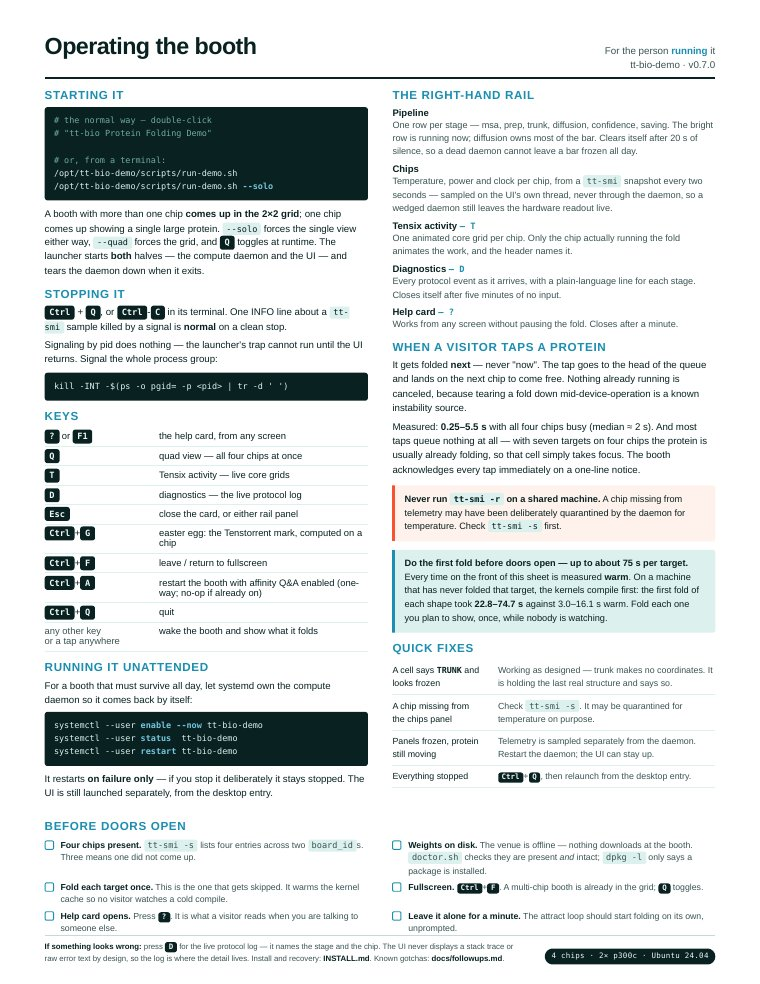
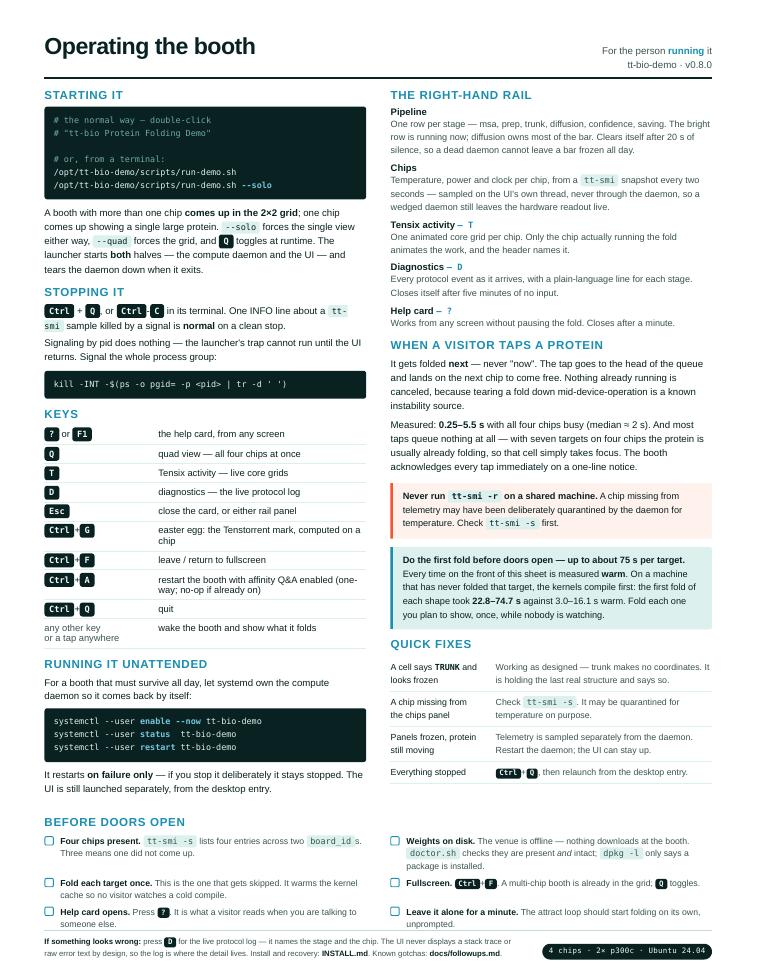
chore: release bookkeeping for tt-bio 0.15.2 and protenix-v1 (0.8.0)

diff --git a/CLAUDE.md b/CLAUDE.md
@@ -1927,6 +1927,114 @@ row and the diagnostics panel below it -- never the panel a visitor is actively 
 answer land in. `test_opening_the_tensix_panel_does_not_move_the_affinity_panel` pins the new
 order and was confirmed red against the old one before being restored.
 
+### tt-bio 0.15.2 and Protenix-v1: the booth's model changed (2026-10-13)
+
+Prompted with: "Let's create a branch to update to the newest tt-bio and use any
+new models, features, etc that make sense. tt-bio might have its own 'demo' UI
+now too; evaluate if so and determine if this project has become superfluous".
+
+**tt-bio has no demo UI, so the project stays.** What it has is a terminal live
+display, `predict --listen`, and `msa-server`. None of them is a booth: no
+gallery, no attract loop, no per-chip panels, no Q&A. The spec has the
+comparison.
+
+**The reason the model changed is a licence, and the pin bump exposed it.**
+tt-bio stopped downloading the Protenix-v2 weights in 0.13.0. Upstream says they
+may not be redistributed without the rights holder's consent, and the old
+Hugging Face source answered HTTP 401. A booth pinned past 0.12.0 could not
+install its own model. Protenix-v1 is upstream's Apache-2.0 v0.5.0 checkpoint,
+so the booth folds with that. The pin moved 0.12.0 -> 0.15.2.
+
+**Key decisions**
+
+- One constant, `runner/model.py:BOOTH_MODEL`, names the model. `ui.playlist`
+  raises `PlaylistError` for a manifest entry that names another one, so a
+  playlist cannot ask the daemon for a model the install did not fetch.
+- The v1 checkpoint lives at `<cache>/protenix/model_v0.5.0.pt`, in a
+  subdirectory. That changed `doctor.sh`'s filesystem check and the postinst's
+  checksum verification. The weights total is recomputed: 6.5 GB (3.3 fold,
+  3.2 Q&A).
+- Adopted nothing else from the release range. Not adopted, with the reasons in
+  the spec: `--write_pae`, the Boltz-2 trajectory hook, OpenDDE guidance, and
+  bf16 diffusion.
+- New `scripts/hw-run.sh` is the safe entry point for hardware runs, with or
+  without gozer. It refuses `scripts/test.sh --hw` unless every chip is granted,
+  because that suite opens all four cards.
+
+**Measured on v1** (all seven targets, same chip and host stack as the v2 runs,
+`docs/measurements-2026-10-13-protenix-v1.md`): warm 2.99-16.1 s, which is
+1.25-3.2x faster than v2. Mean pLDDT is lower than v2 on every target: about 2
+points on Trp-cage and the DNA duplex, 7 on tRNA, 7-20 on the msa-empty
+proteins, 24 on albumin. FKBP12 with SB3 folds on v1. Recorded streams were re-captured on v1. The site,
+README and handout carry the new numbers, and commit counts were re-measured
+(14,033 total, 13,396 carry his name as author).
+
+**Product findings that need the owner**
+
+- **Confidence trade-off.** The booth is faster and the colors come from
+  lower pLDDT. Whether a visitor notices, and whether the blurbs need to
+  say so, was not assessed.
+- **The dwell caps fell.** `first_frame_s` is earlier on v1, so the cap for DHFR
+  and trypsin drops from 7.0 s to about 2.0-2.3 s. That undoes part of the
+  2026-08-24 "linger longer" request. It was not changed. It needs a decision.
+- **The tRNA "wide open elbow" claim is gone.** The 124-degree corner measured
+  on v2 did not reproduce on v1, so the blurb no longer states it.
+- The visible-collapse floor in
+  `test_live_diffusion_is_visible_for_a_substantial_share_of_each_cycle` moved
+  0.40 -> 0.30, with the measured value recorded beside it.
+- README screenshots were not refreshed. They need the live booth on hardware
+  (`docs/followups.md` has the entry). The README still says they show the live
+  application, so that sentence is currently true of the older images only.
+
+**Two host freezes shaped the session, and neither is root-caused.** The machine
+hard-froze twice on 2026-10-13, at about 10:09 and 11:26 PDT, during
+Tenstorrent hardware runs.
+
+1. A `scripts/test.sh --hw` run under a one-board lease. That suite opens all
+   four cards, so it went outside its lease.
+2. A single-chip scratch measurement through `hw-run.sh` on chip 0 (board
+   924062). The first fold finished, the next never did, gozer showed the
+   board's serial as 0xFFFF, and the host froze about 2.5 minutes later.
+
+Both match the chip ARC/NOC wedge followed by workqueue starvation that
+`~/qb2-debug/` already documents (reports 2026-07-12 to 07-15).
+
+The host stack was then upgraded: kmd 2.10.0 -> 2.11.0, tt-smi 6.1.0 -> 6.7.0,
+tt-flash 3.10.0 -> 4.1.0, tt-umd 0.9.8 -> 0.9.12, pyluwen 0.8.5 -> 0.10.0
+(firmware 19.16.0.0 was already on the cards). The identical measurement run
+that had wedged then completed: 28 folds, then 28 and 21 more, with no stall.
+That is one observation on a stack where everything changed together. It does
+not show which part fixed anything, and it does not show that anything was
+fixed.
+
+**Notable moments in prompting and review**
+
+- The first diagnosis of the first freeze was incomplete. The all-chips test
+  run is a plausible contributor to that one, and the second freeze happened
+  on a one-chip run, so neither explanation covers both. Both stay recorded
+  above as unexplained.
+- The agreement test that pins the booth model to the commands printed in the
+  docs missed model names that appeared as literals in places it did not scan.
+  The review found them.
+- `hw-run.sh`'s first check for a busy chip used `fuser`, which only sees the
+  caller's own processes and says nothing about another user's. The script now
+  says what `fuser` cannot see and does not report a chip as free on its
+  say-so.
+
+**Lessons**
+
+- A pin bump can remove a model. Read what the release range did to the
+  weights before reading its speed numbers.
+- A suite named `--hw` that opens every card is not covered by a lease for fewer
+  cards. The refusal belongs in the launcher.
+- A measurement taken before and after a stack upgrade, with several parts
+  changed at once, supports "it completed" and nothing narrower.
+
+Suite state at this entry: the non-hardware suites are green apart from the
+environment-dependent failures this file already names. The full hardware suite
+and the live booth check (plan Task 7 Steps 2 and 3) were not run in this
+commit and are left for the owner.
+
 ## Conventions
 
 - **Keep the README's screenshots current.** The README claims every image on it is the
